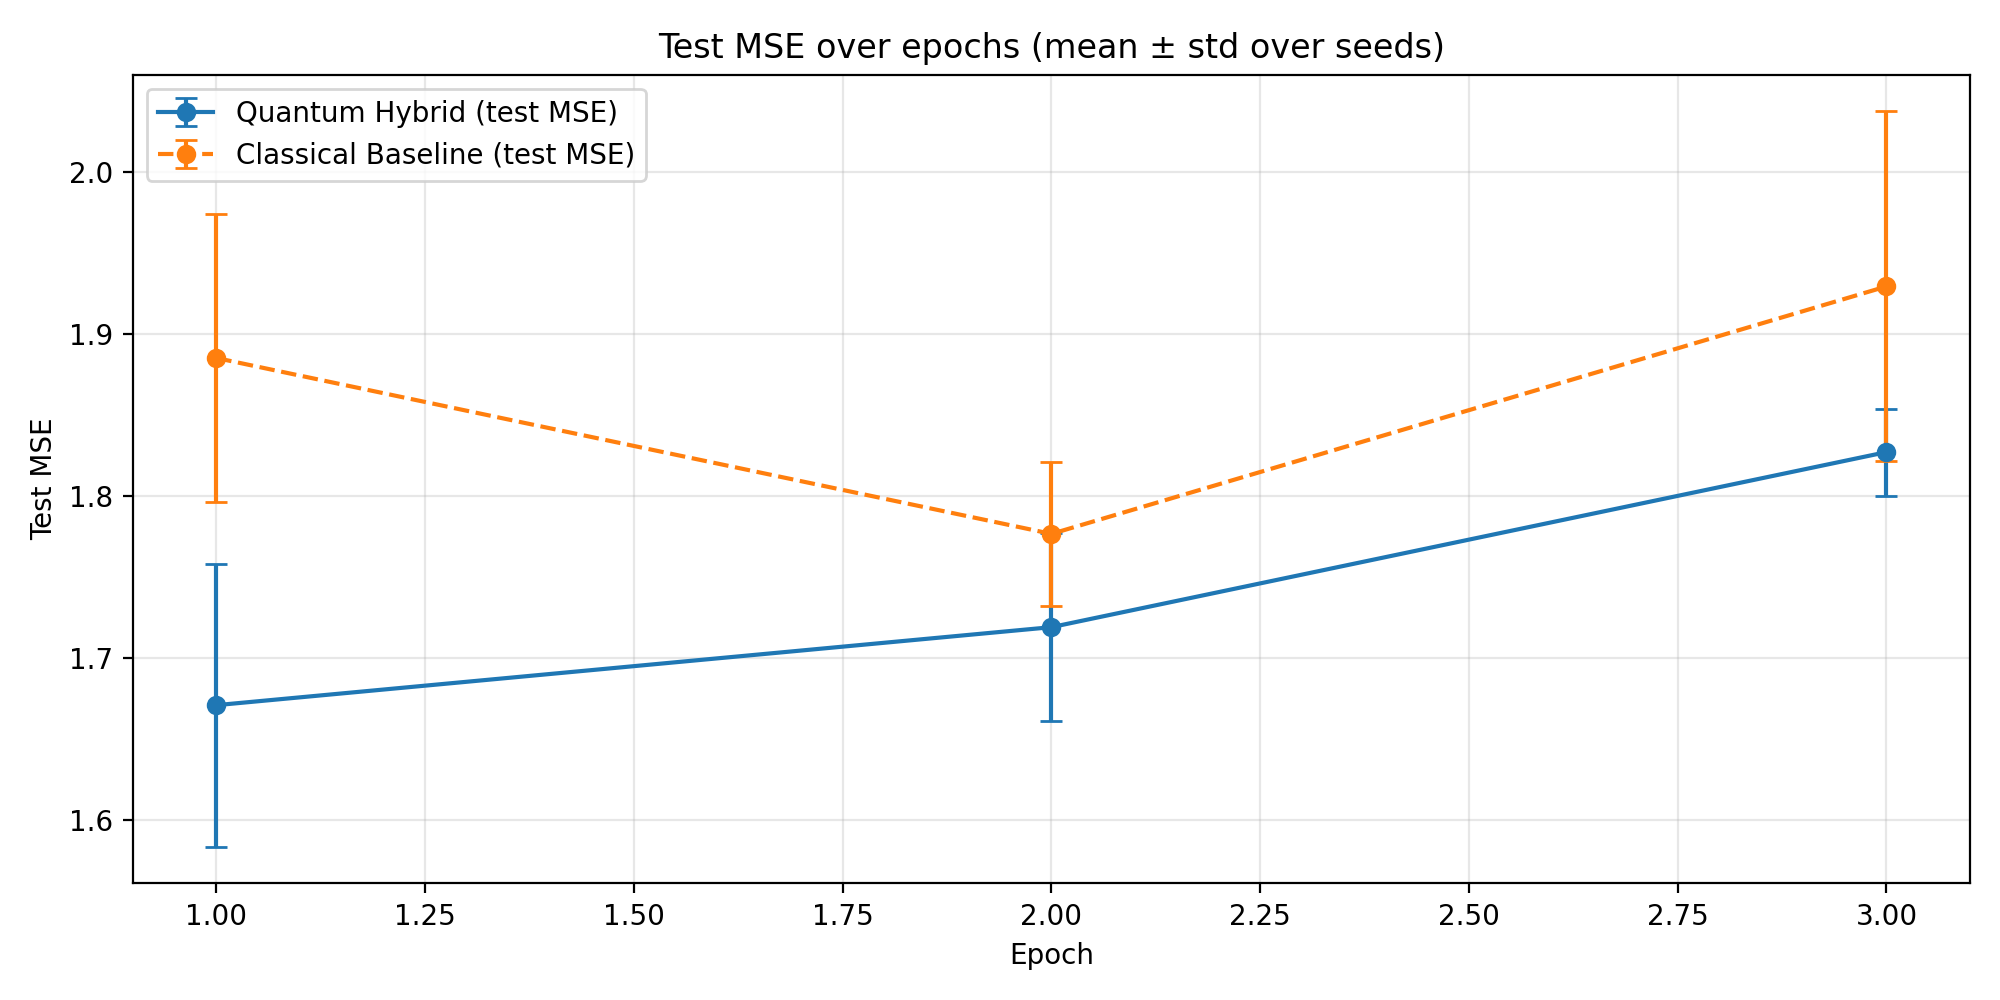
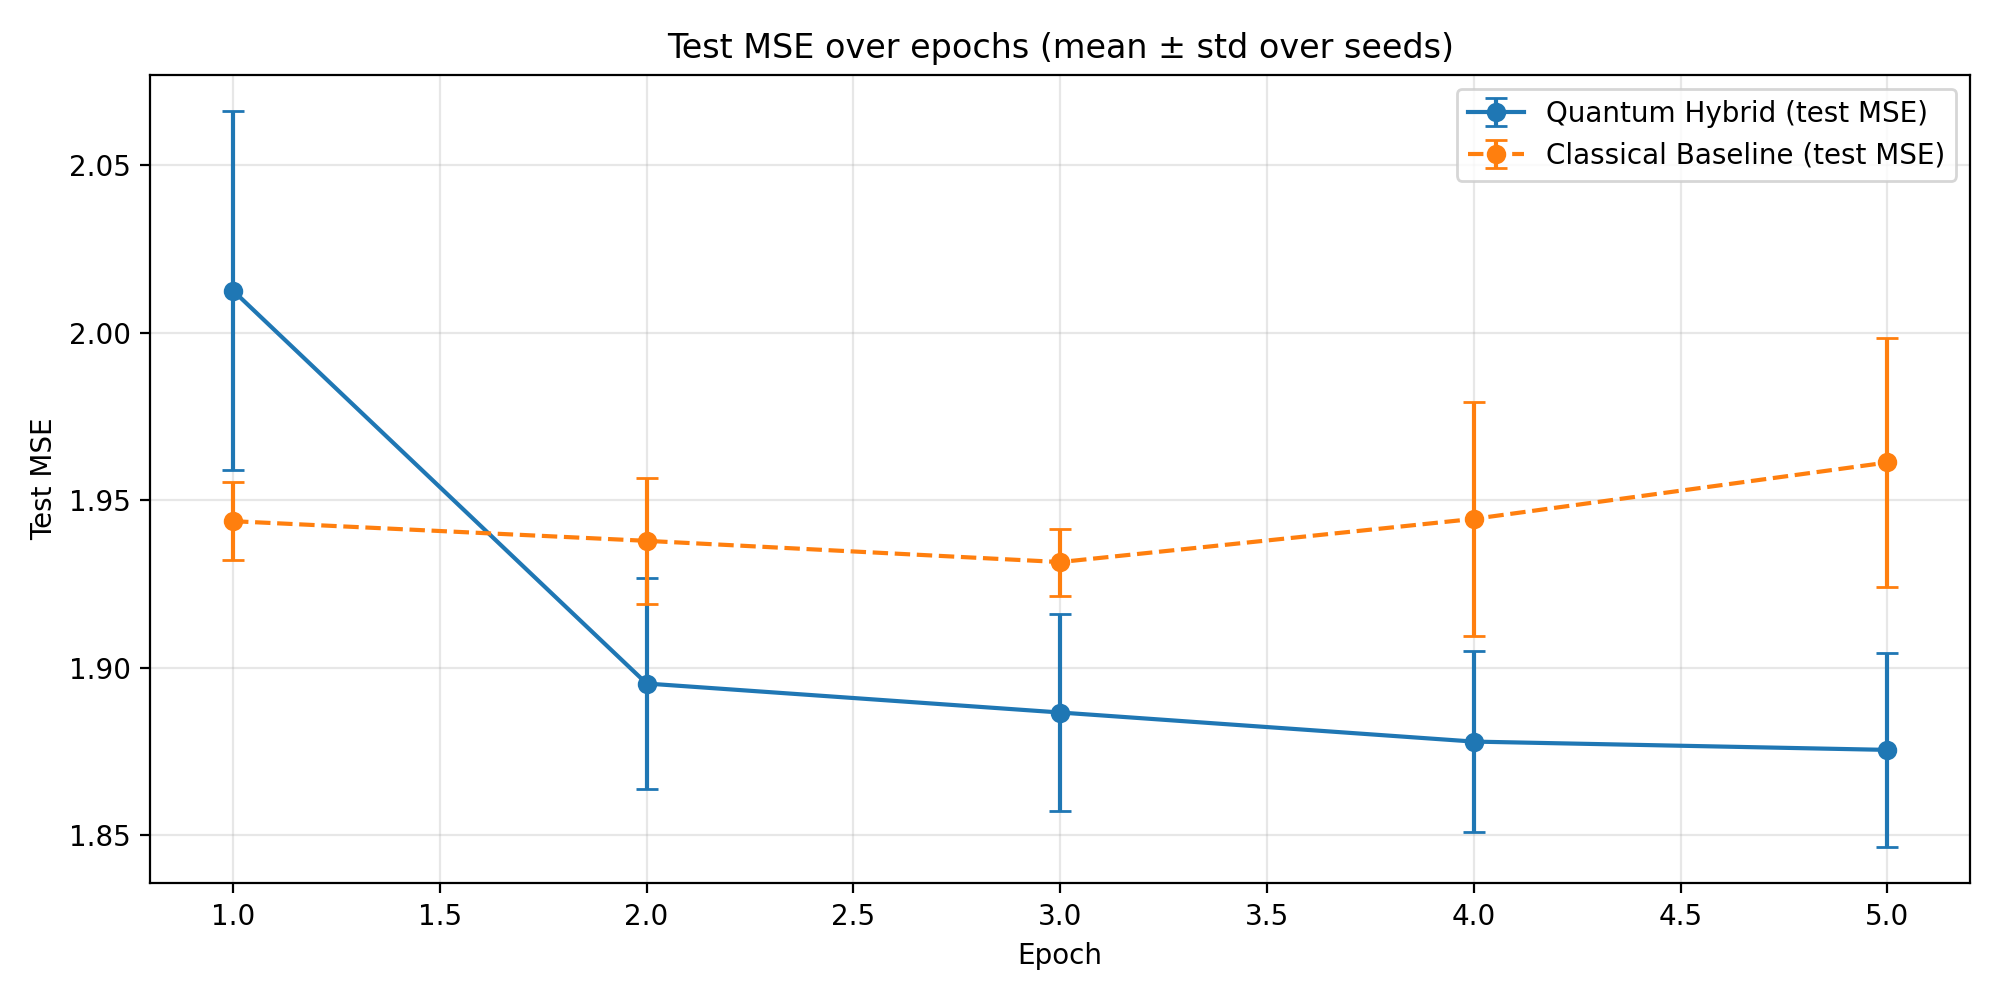
.

diff --git a/QM9_w_Graphing.py b/QM9_w_Graphing.py
@@ -18,18 +18,19 @@ from qiskit.primitives import StatevectorEstimator
 # 0. High-level configuration
 # =========================================================
 
-N_MOLECULES = 500         # how many QM9 molecules to use
+# Increase data + repetitions to strengthen statistical evidence
+N_MOLECULES = 1000        # how many QM9 molecules to use
 BATCH_SIZE = 1            # graphs per batch (1 keeps the quantum call simple)
-EPOCHS = 3
-NUM_SEEDS = 3
+EPOCHS = 5
+NUM_SEEDS = 7
 
 NUM_HOPS = 1              # k-hop neighbourhood for each atom
 MAX_PATCH_SIZE = 4        # number of neighbours per patch
 
 N_QUBITS = 4              # quantum kernel width (also patch_dim after compression)
-CLASS_HIDDEN = 4          # hidden width in classical kernel (gives it *more* params)
+CLASS_HIDDEN = 4          # hidden width in classical kernel (still more params than quantum)
 
-LR = 5e-3                 # shared learning rate
+LR = 3e-3                 # shared learning rate (slightly smaller for stability)
 
 DEVICE = torch.device("cpu")
 
@@ -145,12 +146,14 @@ class QuantumFunction(torch.autograd.Function):
             res_m = estimator.run([(qc, observable, p_neg)]).result()[0].data.evs
 
             grads.append(
-                torch.tensor((res_p - res_m) / 2,
-                             dtype=torch.float32,
-                             device=input_data.device)
+                torch.tensor(
+                    (res_p - res_m) / 2,
+                    dtype=torch.float32,
+                    device=input_data.device,
+                )
             )
 
-        grad_w = torch.stack(grads, dim=1)       # [B_flat, n_weights]
+        grad_w = torch.stack(grads, dim=1)  # [B_flat, n_weights]
 
         # weights are shared, so we sum gradient contributions across the batch
         grad_w = (grad_output.unsqueeze(1) * grad_w).sum(dim=0)
@@ -223,7 +226,7 @@ class HybridRegressor(nn.Module):
 
         # global mean pooling over atoms -> [B, 1]
         graph_feat = node_feats.mean(dim=1, keepdim=True)
-        return self.regressor(graph_feat)      # [B, 1]
+        return self.regressor(graph_feat)  # [B, 1]
 
 
 class ClassicalRegressor(nn.Module):
@@ -242,11 +245,11 @@ class ClassicalRegressor(nn.Module):
     def forward(self, x_patches: torch.Tensor) -> torch.Tensor:
         bsz, num_nodes, patch_size, _ = x_patches.shape
 
-        x = torch.tanh(self.compressor(x_patches))      # [B, N, P, 1]
-        k = torch.tanh(self.kernel(x))                  # [B, N, P, H]
-        patch_feat = k.mean(dim=2)                      # [B, N, H]
-        graph_feat = patch_feat.mean(dim=1)             # [B, H]
-        return self.regressor(graph_feat)               # [B, 1]
+        x = torch.tanh(self.compressor(x_patches))  # [B, N, P, 1]
+        k = torch.tanh(self.kernel(x))              # [B, N, P, H]
+        patch_feat = k.mean(dim=2)                  # [B, N, H]
+        graph_feat = patch_feat.mean(dim=1)         # [B, H]
+        return self.regressor(graph_feat)           # [B, 1]
 
 
 # =========================================================
@@ -386,7 +389,7 @@ q_all_steps = np.array(q_all_steps)  # [NUM_SEEDS * EPOCHS, n_train_steps]
 c_all_steps = np.array(c_all_steps)
 
 mean_q = q_all_steps.mean(axis=0)
-mean_c = c_all_steps.mean(axis=0)
+mean_c = q_all_steps.mean(axis=0)
 
 plt.figure(figsize=(10, 5))
 plt.plot(
@@ -483,3 +486,23 @@ plt.tight_layout()
 test_fig_path = os.path.join(FIG_DIR, "qm9_test_epoch.png")
 plt.savefig(test_fig_path, dpi=200)
 plt.show()
+
+# =========================================================
+# 7. Best-epoch summary (per seed, chosen by validation MSE)
+# =========================================================
+
+best_q_idx = val_q_arr.argmin(axis=1)  # [NUM_SEEDS]
+best_c_idx = val_c_arr.argmin(axis=1)
+
+q_best_test = test_q_arr[np.arange(NUM_SEEDS), best_q_idx]
+c_best_test = test_c_arr[np.arange(NUM_SEEDS), best_c_idx]
+
+print("\n=== Best-epoch (per seed, chosen by val MSE) summary ===")
+print(
+    f"Quantum Hybrid:  test MSE = {q_best_test.mean():.4f} "
+    f"± {q_best_test.std():.4f}"
+)
+print(
+    f"Classical Base: test MSE = {c_best_test.mean():.4f} "
+    f"± {c_best_test.std():.4f}"
+)
